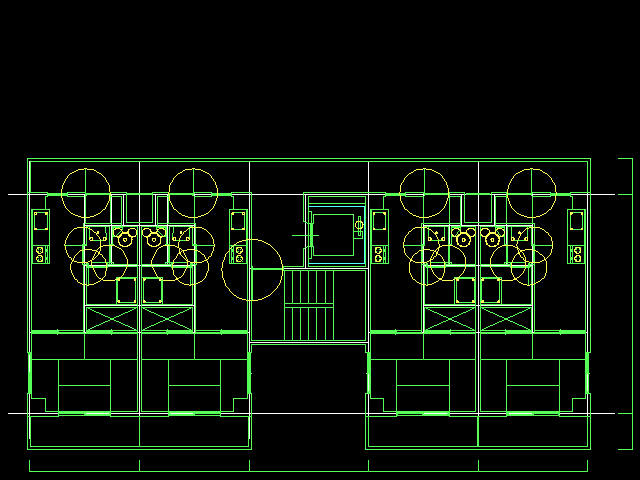
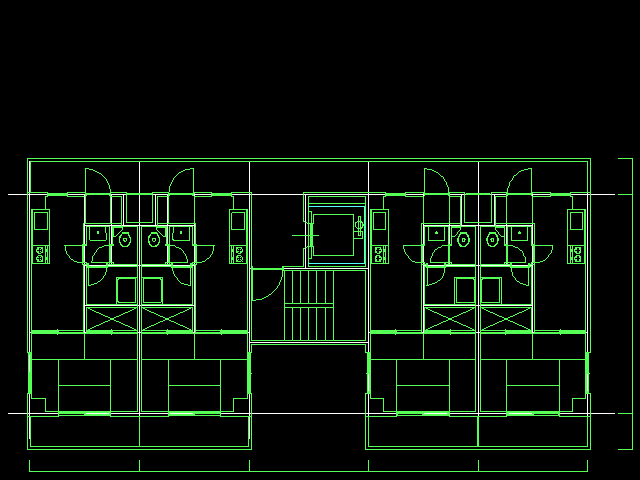
円弧レコードを解く —— 扉の開きが四分円になった
円レコード 32 バイトの中身が決まった。short の flatten（短径/長径 x10000、
10000 が真円）、開始角と終了角とそれぞれの 1/10000 の端数、楕円の傾き、
そして線レコードと同じ pen/type の 2 バイト。

flatten を 32 ビットで読むと後ろのフィールドを巻き込む。それが 0 でない
レコードは SAMPLE2 で 98 本中 33 本あって、10000 が 86 万や 12 億に化け、
楕円の短径が爆発して画面いっぱいが単色に塗りつぶされた。short に直したら
直った。

読みが正しい証拠は絵に出る。前は全部が真円だった円弧が、いまは四分円の
軌跡＝扉の開きとして出る。便器の楕円も傾きどおりに出る。

tests/jwc_test.c が同梱の図面 14 枚を全部読む。ファイル自身が持つ個数が
検算になっていて、どれかが違えば「幾何の開始位置が見つからない」で
落ちる——もっともらしい間違った答えは出ない。

diff --git a/tests/jwc_test.c b/tests/jwc_test.c
@@ -1,0 +1,101 @@
+/* Check the .JWC reader against every drawing the distribution ships.
+ *
+ * The counts in the file's own preamble are the check: the loader has to find
+ * an offset at which exactly that many line records and that many arc records
+ * read back as numbers, so if any of them is wrong the load fails outright
+ * rather than producing a plausible-looking wrong answer.  On top of that:
+ *
+ *   - the geometry has to be somewhere sensible, and the same place for
+ *     drawings whose preamble is the same shape
+ *   - every coordinate has to be a real number in a range a drawing could use
+ *   - an arc's flatten ratio is between 0 and 1, and its sweep is degrees
+ *
+ *   sh tools/build_tests.sh && ./tests/jwc_test.exe
+ */
+#include "jwc.h"
+
+#include <stdio.h>
+#include <string.h>
+
+static int failures;
+
+static void bad(const char *file, const char *what, double got)
+{
+    printf("FAIL %-14s %-38s %g\n", file, what, got);
+    failures++;
+}
+
+static int check(const char *name)
+{
+    char path[256];
+    const char *why;
+    Jwc *d;
+    long k;
+
+    sprintf(path, "orig/%s", name);
+    d = jwc_load(path, &why);
+    if (!d) {
+        printf("FAIL %-14s %s\n", name, why);
+        failures++;
+        return 0;
+    }
+
+    if (d->lines_at < 1400 || d->lines_at > 1800) {
+        bad(name, "geometry starts somewhere unexpected", (double)d->lines_at);
+    }
+    for (k = 0; k < d->n_lines; k++) {
+        const JwcLine *l = &d->lines[k];
+
+        if (!(l->x0 > -1e5f && l->x0 < 1e5f && l->y0 > -1e5f && l->y0 < 1e5f
+              && l->x1 > -1e5f && l->x1 < 1e5f && l->y1 > -1e5f && l->y1 < 1e5f)) {
+            bad(name, "line coordinate out of range", (double)k);
+            break;
+        }
+    }
+    for (k = 0; k < d->n_arcs; k++) {
+        const JwcArc *a = &d->arcs[k];
+
+        if (!(a->r > 0.0f && a->r < 1e5f)) {
+            bad(name, "arc radius out of range", (double)a->r);
+            break;
+        }
+        if (a->flatten <= 0 || a->flatten > 10000) {
+            bad(name, "arc flatten is not a ratio", (double)a->flatten);
+            break;
+        }
+        if (a->start < -360 || a->start > 720 || a->end < -360 || a->end > 720) {
+            bad(name, "arc sweep is not degrees", (double)a->start);
+            break;
+        }
+    }
+
+    printf("  %-14s %5ld lines %4ld arcs %4d points %3d strings   at +%ld\n",
+           name, d->n_lines, d->n_arcs, d->n_points, d->n_strings, d->lines_at);
+    jwc_free(d);
+    return 1;
+}
+
+int main(void)
+{
+    static const char *files[] = {
+        "SAMPLE0.JWC", "SAMPLE1.JWC", "SAMPLE2.JWC", "SAMPLE3.JWC",
+        "SAMPLE4.JWC", "SAMPLE5.JWC", "SAMPLE6.JWC",
+        "TEST1.JWC", "TEST2.JWC", "TEST3.JWC", "TEST4.JWC", "TEST5.JWC",
+        "TEST6.JWC", "TEST7.JWC",
+    };
+    size_t i;
+    int loaded = 0;
+
+    for (i = 0; i < sizeof files / sizeof files[0]; i++) {
+        loaded += check(files[i]);
+    }
+    printf("loaded %d of %d drawings\n", loaded,
+           (int)(sizeof files / sizeof files[0]));
+
+    if (failures || loaded != (int)(sizeof files / sizeof files[0])) {
+        printf("%d checks failed\n", failures);
+        return 1;
+    }
+    printf("jwc: all checks passed\n");
+    return 0;
+}

diff --git a/src/jwc.c b/src/jwc.c
@@ -52,12 +52,6 @@ static float rd_f32(const unsigned char *p)
     return f;
 }
 
-static long rd_i32(const unsigned char *p)
-{
-    return (long)((unsigned long)p[0] | ((unsigned long)p[1] << 8)
-                | ((unsigned long)p[2] << 16) | ((unsigned long)p[3] << 24));
-}
-
 static short rd_i16(const unsigned char *p)
 {
     return (short)(p[0] | (p[1] << 8));
@@ -101,11 +95,15 @@ static int arcs_fit(const unsigned char *b, size_t len, long at, long n)
     }
     for (k = 0; k < n; k++) {
         const unsigned char *r = b + at + k * ARC_SIZE;
+        short flat = rd_i16(r + 12);
 
         if (!sane(rd_f32(r)) || !sane(rd_f32(r + 4)) || !sane(rd_f32(r + 8))) {
             return 0;
         }
         if (rd_f32(r + 8) <= 0.0f) {        /* a radius is positive */
+            return 0;
+        }
+        if (flat <= 0 || flat > 10000) {    /* a ratio, x10000 */
             return 0;
         }
     }
@@ -228,16 +226,29 @@ Jwc *jwc_load(const char *path, const char **why)
 
         for (k = 0; k < d->n_arcs; k++) {
             const unsigned char *r = base + k * ARC_SIZE;
-            int j;
 
+            /* The angle fields gave themselves away by their values: the
+             * ones that hold 0/45/90/180/225/270/315/360 are the sweep and
+             * the tilt, and the small numbers between them are fractions
+             * scaled by 10000, the same scale `flatten` uses. */
             d->arcs[k].cx = rd_f32(r);
             d->arcs[k].cy = rd_f32(r + 4);
             d->arcs[k].r = rd_f32(r + 8);
-            d->arcs[k].flatten = rd_i32(r + 12);
-            for (j = 0; j < 8; j++) {
-                d->arcs[k].a[j] = rd_i16(r + 16 + j * 2);
-            }
-            memcpy(d->arcs[k].attr, r + 28, 4);
+            /* Sixteen bits, not thirty-two: reading it as a long swallows
+             * the field behind it and turns 10000 into nonsense for every
+             * record where that field is not zero (33 of SAMPLE2's 98).
+             * The values seen are 10000 for a circle and 1000..8679 for
+             * flattened ellipses. */
+            d->arcs[k].flatten = rd_i16(r + 12);
+            d->arcs[k].flatten2 = rd_i16(r + 14);
+            d->arcs[k].start      = rd_i16(r + 16);
+            d->arcs[k].start_frac = rd_i16(r + 18);
+            d->arcs[k].end        = rd_i16(r + 20);
+            d->arcs[k].end_frac   = rd_i16(r + 22);
+            d->arcs[k].tilt       = rd_i16(r + 24);
+            d->arcs[k].pen        = r[26];
+            d->arcs[k].type       = r[27];
+            memcpy(d->arcs[k].rest, r + 28, 4);
         }
     }
 

diff --git a/tests/drawing.c b/tests/drawing.c
@@ -69,15 +69,28 @@ int main(int argc, char **argv)
                  d->lines[k].x1, d->lines[k].y1, c);
     }
     for (k = 0; k < d->n_arcs; k++) {
-        float cx = d->arcs[k].cx, cy = d->arcs[k].cy, r = d->arcs[k].r;
-        float px = cx + r, py = cy;
+        const JwcArc *a = &d->arcs[k];
+        double s = a->start + a->start_frac / 10000.0;
+        double e = a->end + a->end_frac / 10000.0;
+        double minor = a->r * (a->flatten > 0 ? a->flatten / 10000.0 : 1.0);
+        double t = a->tilt * 3.141592653589793 / 180.0;
+        double ct = cos(t), st = sin(t);
+        float px = 0.0f, py = 0.0f;
+        int steps;
 
-        for (i = 1; i <= 48; i++) {
-            double a = i * 6.283185307179586 / 48.0;
-            float qx = cx + r * (float)cos(a);
-            float qy = cy + r * (float)sin(a);
+        if (e <= s) {
+            e += 360.0;                   /* 0..0 is the whole ellipse */
+        }
+        steps = (int)((e - s) / 6.0) + 2;
+        for (i = 0; i <= steps; i++) {
+            double ang = (s + (e - s) * i / steps) * 3.141592653589793 / 180.0;
+            double ux = a->r * cos(ang), uy = minor * sin(ang);
+            float qx = a->cx + (float)(ux * ct - uy * st);
+            float qy = a->cy + (float)(ux * st + uy * ct);
 
-            put_line(px, py, qx, qy, 14);
+            if (i) {
+                put_line(px, py, qx, qy, (unsigned)(9 + (a->pen % 7)));
+            }
             px = qx;
             py = qy;
         }

diff --git a/src/vga.c b/src/vga.c
@@ -49,10 +49,22 @@ void vga_outb(VGA *v, unsigned port, unsigned char al)
     }
 }
 
+/* Video memory is 64 KB of planes; the original stays inside it because it
+ * clips to the drawing area first, and anything translated from it should too.
+ * Until every caller does, a write that lands outside is dropped rather than
+ * scribbling over the process -- a real card would just wrap. */
+static int off_ok(const VGA *v, long offset)
+{
+    return offset >= 0 && offset < (long)v->stride * v->height;
+}
+
 unsigned char vga_read(VGA *v, long offset)
 {
     int p;
 
+    if (!off_ok(v, offset)) {
+        return 0;
+    }
     for (p = 0; p < VGA_PLANES; p++) {
         v->latch[p] = v->plane[p][offset];
     }
@@ -79,6 +91,10 @@ void vga_rmw(VGA *v, long offset, unsigned char data)
     unsigned rop = (unsigned)(v->gc[GC_DATA_ROTATE] & 0x18);
     unsigned rot = (unsigned)(v->gc[GC_DATA_ROTATE] & 7);
     int p;
+
+    if (!off_ok(v, offset)) {
+        return;
+    }
 
     /* The read half of the read-modify-write is what fills the latches; the
      * code being translated relies on it, so do it here rather than asking

diff --git a/src/jwc.h b/src/jwc.h
@@ -17,9 +17,13 @@ typedef struct {
 
 typedef struct {
     float cx, cy, r;
-    long flatten;               /* always 10000 in the samples; 1.0000 x 10^4 */
-    short a[8];                 /* angles in degrees appear here: 0/90/180/270 */
-    unsigned char attr[4];
+    short flatten;      /* the minor/major ratio, x10000; 10000 is a circle  */
+    short flatten2;     /* zero in most records; a fraction, or part of the tilt */
+    short start, end;   /* degrees; equal (usually 0,0) means the whole thing */
+    short start_frac, end_frac;   /* hundredths of a degree, x10000 like flatten */
+    short tilt;         /* degrees the ellipse is turned by */
+    unsigned char pen, type;
+    unsigned char rest[4];
 } JwcArc;
 
 typedef struct {

diff --git a/README.md b/README.md
@@ -261,8 +261,9 @@ sh tools/ghidra.sh all       # 全部（長い）
 
 `orig/SAMPLE2.JWC` と `orig/SAMPLE6.JWC` を、移植したコードだけで描いたものです
 （`src/jwc.c` が読み、`src/draw.c` が `src/vga.c` のグラフィックコントローラ越しに描く）。
-円弧は多角形で代用しています——原典の円弧は `20a9:0e18`（1,668 バイト、引数 10 個）で、
-まだ移していません。
+円弧はまだ多角形で代用しています（原典の `20a9:0e18` は 1,668 バイト・引数 10 個で、
+度数で最大 5 分割して 8087 で計算するもの。未移植）。ただし**開始角・終了角・扁平率・
+傾きはファイルから正しく読めていて**、扉の開きがちゃんと四分円になります。
 
 ![SAMPLE2](docs/screen_sample2.png)
 ![SAMPLE6](docs/screen_sample6.png)
@@ -294,7 +295,22 @@ sh tools/build_tests.sh
 | `SAMPLE2.JWC` | 1,084 | 98 | 46 | 10 |
 
 個数が分かれば残りが読めます。**線は 22 バイト**（`float x0,y0,x1,y1` ＋ 属性 6）、
-**円は 32 バイト**（`float cx,cy,r` ＋ 10000 固定 ＋ 角度らしき short が 8 ＋ 属性 4）。
+**円は 32 バイト**。
+
+```
+float cx, cy, r;        12   中心と半径
+short flatten;           2   短径/長径 x10000。10000 が真円、1000〜8679 が楕円
+short ?;                 2   ほとんど 0
+short start, start_frac; 4   開始角（度）と 1/10000 の端数
+short end, end_frac;     4   終了角。start と同じなら全周
+short tilt;              2   楕円の傾き（度）
+byte  pen, type;         2   線の属性。線レコードの先頭 2 バイトと同じ
+byte  rest[4];           4
+```
+
+`flatten` を 32 ビットで読むと後ろのフィールドを巻き込んで、それが 0 でない
+レコード（`SAMPLE2.JWC` では 98 本中 33 本）で 10000 が桁違いの数に化けます。
+画面いっぱいが塗りつぶされて気づきました。
 個数がちょうど合わないと位置がずれるので、逆に個数が検算になります。
 
 まだ分かっていないのは**データ本体のどこから幾何が始まるか**です。手前に
